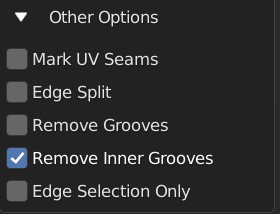
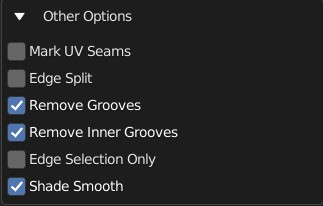
Added smoothing options

diff --git a/docs/_build/html/searchindex.js b/docs/_build/html/searchindex.js
@@ -1,1 +1,1 @@
-Search.setIndex({docnames:["anim_nodes/anim_nodes_overview","contact/contact","greeble_libraries/greeble_library","index","iterator/iterator","parameters/levels","parameters/panel_controls","parameters/properties","parameters/properties/greeble_props","parameters/properties/plating_props","selection/updating_selection","usage/installation","usage/presets","usage/quickstart"],envversion:{"sphinx.domains.c":2,"sphinx.domains.changeset":1,"sphinx.domains.citation":1,"sphinx.domains.cpp":4,"sphinx.domains.index":1,"sphinx.domains.javascript":2,"sphinx.domains.math":2,"sphinx.domains.python":3,"sphinx.domains.rst":2,"sphinx.domains.std":2,sphinx:56},filenames:["anim_nodes\\anim_nodes_overview.rst","contact\\contact.rst","greeble_libraries\\greeble_library.rst","index.rst","iterator\\iterator.rst","parameters\\levels.rst","parameters\\panel_controls.rst","parameters\\properties.rst","parameters\\properties\\greeble_props.rst","parameters\\properties\\plating_props.rst","selection\\updating_selection.rst","usage\\installation.rst","usage\\presets.rst","usage\\quickstart.rst"],objects:{},objnames:{},objtypes:{},terms:{"0":8,"1":[8,9],"100":8,"3":5,"3d":3,"4":5,"50":8,"500x500px":2,"90":8,"boolean":[],"case":8,"class":[],"default":[2,3,5,8,9],"do":[0,1,2,8,11],"final":2,"function":[4,8],"long":13,"new":[0,1,2,5,9,10,13],"switch":6,"try":[5,6],"while":[6,9],A:[2,5,8,9,11],And:0,As:9,By:[5,8,9],For:[2,3,5,8,9,10,11],If:[0,1,2,4,5,6,8,9,10,11,13],In:[5,9,10,11,13],It:[2,3,5,9],No:9,On:[3,5,10],One:0,Ons:2,The:[0,2,4,5,6,8,9,10,11,13],Then:[2,11],There:[0,2,8,9,11],These:[6,8,9,11,12,13],To:[2,4,5],With:[5,11,12],_:0,abil:5,abl:[2,5,8],abov:11,accent:9,access:[5,12],accident:13,accordingli:[3,5],ack:4,across:[],action:[3,13],activ:[8,9],ad:[5,8,9,12,13],add:[0,2,3,5,6,7,8],addit:[9,11],addon:[3,11],adjust:8,advanc:[],advantag:13,affect:8,after:4,algorithm:[3,9],align:8,all:[2,6,8,13],alloc:8,allow:[3,5,8,9,11],along:[8,11],alreadi:[2,9,10,11],also:[0,2,3,8,9,10,13],alt:[],alter:9,altern:4,amount:[8,9],an:[4,8,9,11,12],angl:7,ani:[2,3,6,11],anim:3,animation_nodes_plating_gener:11,animation_nodes_sampl:11,anoth:[5,13],appear:[2,4,5,10,11,13],appli:[2,5,8,9],approach:8,ar:[0,2,3,4,5,6,8,9,10,11,12,13],area:[5,8,9,10],around:9,arounf:[],arrow:5,artist:3,askhfalsflkdj:[],aspect:8,assess:4,assign:[5,9],associ:[5,10],auto:6,auto_update_btn:[],autom:3,automat:[4,5,6,8,9,10,12,13],avail:[0,11,13],avoid:[8,9],axi:8,back:[3,13],base:[3,5,9,13],basic:[8,13],becaus:8,becom:9,been:9,befor:[5,9],behavior:9,being:[4,5,8,9],below:[5,11,13],bend:[],best:[],between:9,bevel:[3,7],blah:[],blend:[2,11],blender:[0,2,4,5,6,9,11,13],bonu:11,both:[5,9],bottom:[12,13],box:[2,9,11],bring:13,brown:[2,7],bug:9,build:3,built:[5,13],button:[2,5,6,11,12],calcul:5,call:[2,4,5,9,13],camera:4,can:[2,4,5,6,8,9,10,12,13],cancel:3,cast:[],caution:5,chang:[3,6,8,9,10],checbox:[],check:[4,8,9],checkbox:[5,8,9,11],child:2,choic:[],choos:[3,4,5,8,9],chosen:[],clamp:9,cleanli:[],click:[2,5,8,10,11,12,13],coboid:[],code:6,color:[3,5,8,9],com:11,combin:[3,4,5,9],come:8,complet:[3,9],complex:[],comput:[2,5],concept:[3,5],configur:[0,1,2,4,5,9,11],conform:3,consist:[],consum:3,contact:3,contain:2,content:2,context:13,continu:[],control:[0,3,4,5,8,9],copi:[2,3,5],core:11,corner:[3,7],could:2,cover:8,coverag:8,creat:[0,2,3,4,5,8,9,10,13],creation:[],credit:2,criss:7,cross:7,curat:3,curv:[2,3,9],custom:[8,9],custom_greebl:2,customis:[3,8],customiz:3,cut:9,cutter:[],cylind:8,damag:13,decreas:[],deeper:13,defin:[8,9],deform:8,degre:8,delet:[2,5],demonstr:11,denot:[8,9],depend:5,depth:[3,9],descib:13,describ:[5,11,13],descript:8,design:3,desir:[],destruct:[3,5,6,9],detail:[3,9,13],determin:9,deviat:[8,9],dialog:11,diamet:9,differ:[3,4,5,6,8,9,10],difficult:13,direct:[8,9],directli:13,directori:[2,4],disabl:[5,8,9],disappear:[9,13],displai:[4,5,6,13],distanc:9,distort:9,divid:[],divis:8,document:[9,11],doe:[2,11],don:13,down:[2,5,8,9],download:11,dragon:7,drop:[2,8,9],dropdown:12,duplic:[],dure:13,dynam:[0,11],e:11,each:[4,5,8,9],easi:[],edg:[3,7],edit:[2,3,9,10,11,13],effect:[0,3,5,8,9],either:[0,3,5,13],embed:13,enabl:[5,8,9],engin:4,ensur:[],enter:[8,12],entri:[2,12],essenti:11,exampl:[2,5,9,12],exist:[4,9,10,13],expand:[2,5,13],expens:9,experiment:9,extens:[0,11],extra:5,extrud:3,extrus:[],f9:13,face:[3,5,7,8,13],fantast:[],fashion:[],favour:[],featur:[0,1,4,11],feel:3,fewer:9,fi:[],file:[2,4,11],filenam:4,find:[2,3],first:5,fit:8,fix:3,flat:3,folder:2,follow:[2,8,9,10,11,13],form:13,freeli:11,freez:[4,5],from:[2,3,5,7,9,10,11,13],full:[],further:[3,5],futur:5,futurist:[],g:11,gener:[0,2,4,6,7,10,11,12,13],geometri:9,get:[0,1,2,3,5,10,11],gimp:5,give:[2,5,9],given:9,go:[2,3,11],goal:[],good:[2,8,9],great:5,greatli:3,greebl:[0,3,5,7,9,11,12],greeble_librari:11,green:5,groob:[],groov:[3,7],group:9,ha:[5,8,9],half:8,hand:[6,13],have:[0,1,2,5,8,9,10,11,12,13],height:[3,7,8,12],here:[5,8,9,11,13],hesit:[0,1,2,11],hidden:5,higher:[8,9],highlight:5,hover:8,how:[8,9,11],howev:13,http:11,hull:3,i:2,ico:9,icon:5,imag:4,increas:9,independ:9,index:[3,8,9],infinit:[],info:[0,1,2,11],inherit:8,inner:9,insid:9,inspir:9,instal:[3,8],instanc:[2,3,8],instead:9,instruct:11,intact:[3,13],integr:3,interest:5,interfac:8,interlock:3,intersect:9,introduct:3,irregular:8,island:[],issu:[0,1,2,11],iter:3,its:10,join:2,jpg:[],just:[8,9],keep:[8,9],kei:[5,6,13],kept:9,kit:4,kitbash:[],known:9,l:8,larger:9,latest:11,lattic:[],layer:[5,9],lead:9,leav:[3,9,13],left:[11,13],length:8,less:9,let:9,level:[3,8,9,13],librari:[3,7,11],light:2,like:[0,2,6,8,12],limit:9,line:[3,9,13],list:2,load:[2,12],locat:12,longer:[3,4,5],look:[0,2,3,6],loop:[3,9],lower:9,mai:[4,5,9,13],main:[0,3,4,8,9,10],maintain:[3,8],major:7,make:[3,5,9,11],manag:[],mani:[2,4,8,9],manual:[3,6],map:[2,9],mark:9,master:[4,6],match:9,materi:[2,3,7,8],max:[8,9],maximum:[8,9],maxmum:[],mean:8,mech:[],menu:[8,9,10,12,13],mesh:[2,3,8,9,10,11],method:3,min:[8,9],minimum:[5,8,9],minor:7,mirror:[],mode:[8,9,10,13],model:3,modifi:[2,9,13],modul:3,moment:5,more:[3,5,8,9,13],mors:[2,7],most:[],mous:8,move:5,much:[8,9],multipl:[],my:2,my_greebl:2,n:[6,13],name:[2,4,5,8,9,12,13],navig:[4,11],need:[2,6,13],neg:9,net:[0,1,2,11],next:[11,12],node:3,non:[3,5,6,7,9],normal:[2,8],note:9,now:[2,5],number:[8,9],object:[2,3,4,5,6,7,9,10,12],off:6,ok:12,onc:8,one:[0,2,5,8,13],onli:9,ons:11,onto:[5,8],op:4,open:11,oper:[3,9],opposit:9,optim:[],option:[0,2,3,4,5,7,8,10,11,13],order:11,organis:[5,8,9],orient:7,origin:[5,8,9,13],other:[2,3,7,8],our:[],out:[4,6,8,9],outer:9,output:4,outsid:13,outward:8,over:3,overal:[6,8],overlap:[3,7,9],overrid:[8,9],own:[2,3,8,9],page:3,pair:2,panel:[0,3,8,9,12,13],parallelmayhem:[],paramet:[6,7,9,11],part:9,path:4,pattern:[3,7,11,12,13],pattern_triangular:[],per:9,percentag:[8,9],perform:[9,13],photoshop:5,pick:[],pictur:2,place:8,plate:[0,2,4,5,6,7,8,11,12],plating_color:9,plating_generator_greebl:11,png:2,point:[8,10,13],pop:12,popul:9,posit:8,positon:[],possibl:4,power:[0,5],prefer:[2,11],presenc:4,preset:[3,5],press:[5,6,9,12,13],prevent:[5,9],preview:4,previou:5,process:[3,4,5],produc:4,product:[],project:7,prop_greeble_pattern:[],properti:[0,3,6],proport:[3,8],provid:11,purpl:5,purpos:[5,8,9],put:8,quad:[3,8],question:[0,1],quickli:[3,6],random:[3,5,6,8,9,12],randomis:6,randomli:[6,8,9],rang:[3,4],ratio:8,re:[5,12],recommend:[],reconfigur:3,rectangl:7,ref:[],refin:3,refresh:2,rel:8,reliabl:[],remain:9,rememb:[],remov:[3,4,9],render:[2,4],reset:2,restrict:8,result:9,revenu:[],right:[6,10,12,13],rise:5,rivet:7,robot:[],robust:[],rotat:8,roughli:8,round:[3,9],rout:[],row:5,rubi:7,run:4,s:[5,6,8,9,13],sam:[2,9],same:[2,8,9,11],sampl:11,save:[2,5,12],scatter:3,scene:[2,4,7],sci:[],screen:2,sdf:[],sdfsdf:[],sdsdf:[],seam:9,search:[2,3,11],section:[2,5,8,9,13],see:[2,4,5,8,9,13],seed:[3,4,5,6,8,9],segment:9,select:[2,3,5,6,7,8,11,12,13],selector:5,separ:[0,2,3,13],set:[2,4,5,8,9,10,11,12,13],setup:11,sever:8,shader:9,shape:[3,8,9],shift:5,ship:[],shipwright:[],should:[2,5,8,9,10,11,13],show:[5,6,8,9],shrink:9,side:[5,6,9,13],similar:[0,4,5,9],simpl:9,singl:[2,5],size:[5,8,9],slice:9,slide:[],slope:[],slot:[8,9],slow:5,small:[2,5,8,9],smaller:[3,5,9],smart:9,smooth:9,so:[2,5,6,8,9],sold:[],solid:[],solidifi:9,some:[5,9,13],somewher:2,space:8,spaceship:3,special:3,specif:[],specifi:[6,8,9],speed:3,sphere:9,spheric:9,split:9,squar:[2,8],stack:5,standard:[3,9],start:[2,3,4],step:11,still:3,stop:[4,5,8],stream:[],stretch:8,strong:[],sub:[3,5],subdivid:9,subdivis:9,subsequ:[],subtract:[],suppli:8,support:[],sure:[2,9,11],surfac:[3,8],surround:9,synth:4,t:[8,13],tab:[2,6,11,13],take:3,tall:[],taper:7,termin:9,test:3,textur:9,than:[5,9],thei:[3,5,8,9],them:[8,9],thi:[0,2,3,4,5,6,8,9,10,11,13],thia:9,thick:3,those:0,through:3,thumbnail:[2,8],tick:11,tier:5,time:[3,13],todo:[],tool:13,top:[3,5,9,11,12,13],total:8,touch:[0,1,2,11],toward:[],triangl:9,triangular:7,turn:[6,8],twitter:[],two:[0,9],type:[2,5,7,11],u:[],ui:11,uncheck:9,under:8,undo:13,unfreez:4,uniform:8,uniqu:3,unless:[5,8],unnecessarili:8,unzip:[2,11],up:[2,3,5,12],updat:[3,5,6],upper:5,us:[0,2,3,6,8,9,10,11,12,13],user:8,uv:[2,7],v:[],valu:[4,8,9],vari:[3,8,9],variat:6,vector:8,veri:[3,5],version:[3,9],vertex:[3,9],via:[0,1,2,9,11],view:[],viewport:[6,13],visibl:[6,13],w:[],wa:5,wai:[2,13],wait:[],walk:9,want:[0,3,8,9,10,13],we:[8,9],weapon:[],what:[2,6],when:[2,3,4,5,6,8,9,10,12,13],where:[8,9,11],wherev:9,whether:[4,5,6,8,9],which:[3,5,8,9,13],whilst:4,who:3,whole:[3,9],width:[8,9],wish:[5,10,13],within:[6,8],without:[8,9],work:[5,9],workflow:[3,5,6,9],would:2,x:9,y:[],you:[0,1,2,4,5,6,8,9,10,11,12,13],your:[2,3,4,8,12,13],z:8,zip:[2,11]},titles:["Animation Nodes","Contact","Greeble Libraries","The Plating Generator","Iterator","Levels","Control Panel","Properties","Greeble Properties","Plating Properties","Update/Copy/Select","Installation","Presets","Getting Started"],titleterms:{"0":3,For:[],On:11,The:3,ad:[],add:[9,11,12,13],angl:9,anim:[0,11],anoth:[],appli:12,bevel:9,brown:9,build:5,can:3,cancel:4,chang:[5,13],collect:[],contact:1,content:[3,7],control:6,copi:10,corner:9,criss:9,cross:9,custom:[],delet:12,destruct:[12,13],document:[],doe:3,down:[],dragon:9,drop:[],edg:9,end:[],face:[9,10],featur:3,from:8,gener:[3,8,9],get:13,greebl:[2,8,13],groov:9,height:9,how:3,indic:3,instal:[2,11],introduct:5,iter:4,level:5,librari:[2,8],main:[6,11],major:9,make:2,materi:9,menu:[],mesh:13,minor:9,mors:9,node:[0,11],non:[8,12,13],object:[8,13],oper:[4,13],option:9,orient:8,other:[5,9],overlap:8,overrid:[],panel:[5,6],paramet:8,pattern:[8,9],plate:[3,9,10,13],preset:12,project:9,properti:[5,7,8,9,13],random:[],rectangl:9,redo:3,rivet:9,rotat:[],round:[],rubi:9,s:[],scale:[],scene:8,select:[9,10],start:13,tabl:3,taper:9,triangular:9,type:9,updat:10,us:[4,5],uv:9,v2:3,version:11,welcom:[],what:3,work:3,workflow:[12,13],you:3}})
+Search.setIndex({docnames:["anim_nodes/anim_nodes_overview","contact/contact","greeble_libraries/greeble_library","index","iterator/iterator","parameters/levels","parameters/panel_controls","parameters/properties","parameters/properties/greeble_props","parameters/properties/plating_props","selection/updating_selection","usage/installation","usage/presets","usage/quickstart"],envversion:{"sphinx.domains.c":2,"sphinx.domains.changeset":1,"sphinx.domains.citation":1,"sphinx.domains.cpp":4,"sphinx.domains.index":1,"sphinx.domains.javascript":2,"sphinx.domains.math":2,"sphinx.domains.python":3,"sphinx.domains.rst":2,"sphinx.domains.std":2,sphinx:56},filenames:["anim_nodes\\anim_nodes_overview.rst","contact\\contact.rst","greeble_libraries\\greeble_library.rst","index.rst","iterator\\iterator.rst","parameters\\levels.rst","parameters\\panel_controls.rst","parameters\\properties.rst","parameters\\properties\\greeble_props.rst","parameters\\properties\\plating_props.rst","selection\\updating_selection.rst","usage\\installation.rst","usage\\presets.rst","usage\\quickstart.rst"],objects:{},objnames:{},objtypes:{},terms:{"0":8,"1":[8,9],"100":8,"3":5,"3d":3,"4":5,"50":8,"500x500px":2,"90":8,"boolean":[],"case":8,"class":[],"default":[2,3,5,8,9],"do":[0,1,2,8,11],"final":2,"function":[4,8],"long":13,"new":[0,1,2,5,9,10,13],"switch":6,"try":[5,6],"while":[6,9],A:[2,5,8,9,11],And:0,As:9,By:[5,8,9],For:[2,3,5,8,9,10,11],If:[0,1,2,4,5,6,8,9,10,11,13],In:[5,9,10,11,13],It:[2,3,5,9],No:9,On:[3,5,10],One:0,Ons:2,The:[0,2,4,5,6,8,9,10,11,13],Then:[2,11],There:[0,2,8,9,11],These:[6,8,9,11,12,13],To:[2,4,5],With:[5,11,12],_:0,abil:5,abl:[2,5,8],abov:11,accent:9,access:[5,12],accident:13,accordingli:[3,5],ack:4,across:[],action:[3,13],activ:[8,9],ad:[5,8,9,12,13],add:[0,2,3,5,6,7,8],addit:[9,11],addon:[3,11],adjust:8,advanc:[],advantag:13,affect:8,after:4,algorithm:[3,9],align:8,all:[2,6,8,9,13],alloc:8,allow:[3,5,8,9,11],along:[8,11],alreadi:[2,9,10,11],also:[0,2,3,8,9,10,13],alt:[],alter:9,altern:4,amount:[8,9],an:[4,8,9,11,12],angl:7,ani:[2,3,6,11],anim:3,animation_nodes_plating_gener:11,animation_nodes_sampl:11,anoth:[5,13],appear:[2,4,5,10,11,13],appli:[2,5,8,9],approach:8,ar:[0,2,3,4,5,6,8,9,10,11,12,13],area:[5,8,9,10],around:9,arounf:[],arrow:5,artist:3,askhfalsflkdj:[],aspect:8,assess:4,assign:[5,9],associ:[5,10],auto:[6,9],auto_update_btn:[],autom:3,automat:[4,5,6,8,9,10,12,13],avail:[0,11,13],avoid:[8,9],axi:8,back:[3,13],base:[3,5,9,13],basic:[8,13],becaus:8,becom:9,been:9,befor:[5,9],behavior:9,being:[4,5,8,9],below:[5,11,13],bend:[],best:[],between:9,bevel:[3,7],blah:[],blend:[2,11],blender:[0,2,4,5,6,9,11,13],bonu:11,both:[5,9],bottom:[12,13],box:[2,9,11],bring:13,brown:[2,7],bug:9,build:3,built:[5,13],button:[2,5,6,11,12],calcul:5,call:[2,4,5,9,13],camera:4,can:[2,4,5,6,8,9,10,12,13],cancel:3,cast:[],caution:5,chang:[3,6,8,9,10],checbox:[],check:[4,8,9],checkbox:[5,8,9,11],child:2,choic:[],choos:[3,4,5,8,9],chosen:[],clamp:9,cleanli:[],click:[2,5,8,10,11,12,13],coboid:[],code:6,color:[3,5,8,9],com:11,combin:[3,4,5,9],come:8,complet:[3,9],complex:[],comput:[2,5],concept:[3,5],configur:[0,1,2,4,5,9,11],conform:3,consist:[],consum:3,contact:3,contain:2,content:2,context:13,continu:[],control:[0,3,4,5,8,9],copi:[2,3,5],core:11,corner:[3,7],could:2,cover:8,coverag:8,creat:[0,2,3,4,5,8,9,10,13],creation:[],credit:2,criss:7,cross:7,curat:3,curv:[2,3,9],custom:[8,9],custom_greebl:2,customis:[3,8],customiz:3,cut:9,cutter:[],cylind:8,damag:13,decreas:[],deeper:13,defin:[8,9],deform:8,degre:8,delet:[2,5],demonstr:11,denot:[8,9],depend:5,depth:[3,9],descib:13,describ:[5,11,13],descript:8,design:3,desir:[],destruct:[3,5,6,9],detail:[3,9,13],determin:9,deviat:[8,9],dialog:11,diamet:9,differ:[3,4,5,6,8,9,10],difficult:13,direct:[8,9],directli:13,directori:[2,4],disabl:[5,8,9],disappear:[9,13],displai:[4,5,6,13],distanc:9,distort:9,divid:[],divis:8,document:[9,11],doe:[2,11],don:13,down:[2,5,8,9],download:11,dragon:7,drop:[2,8,9],dropdown:12,duplic:[],dure:13,dynam:[0,11],e:11,each:[4,5,8,9],easi:[],edg:[3,7],edit:[2,3,9,10,11,13],effect:[0,3,5,8,9],either:[0,3,5,13],embed:13,enabl:[5,8,9],engin:4,ensur:[],enter:[8,12],entri:[2,12],essenti:11,exampl:[2,5,9,12],exist:[4,9,10,13],expand:[2,5,13],expens:9,experiment:9,extens:[0,11],extra:5,extrud:3,extrus:[],f9:13,face:[3,5,7,8,13],fantast:[],fashion:[],favour:[],featur:[0,1,4,11],feel:3,fewer:9,fi:[],file:[2,4,11],filenam:4,find:[2,3],first:5,fit:8,fix:3,flat:3,folder:2,follow:[2,8,9,10,11,13],form:13,freeli:11,freez:[4,5],from:[2,3,5,7,9,10,11,13],full:[],further:[3,5],futur:5,futurist:[],g:11,gener:[0,2,4,6,7,10,11,12,13],geometri:9,get:[0,1,2,3,5,10,11],gimp:5,give:[2,5,9],given:9,go:[2,3,11],goal:[],good:[2,8,9],great:5,greatli:3,greebl:[0,3,5,7,9,11,12],greeble_librari:11,green:5,groob:[],groov:[3,7],group:9,ha:[5,8,9],half:8,hand:[6,13],have:[0,1,2,5,8,9,10,11,12,13],height:[3,7,8,12],here:[5,8,9,11,13],hesit:[0,1,2,11],hidden:5,higher:[8,9],highlight:5,hover:8,how:[8,9,11],howev:13,http:11,hull:3,i:2,ico:9,icon:5,imag:4,increas:9,independ:9,index:[3,8,9],infinit:[],info:[0,1,2,11],inherit:8,inner:9,insid:9,inspir:9,instal:[3,8],instanc:[2,3,8],instead:9,instruct:11,intact:[3,13],integr:3,interest:5,interfac:8,interlock:3,intersect:9,introduct:3,irregular:8,island:[],issu:[0,1,2,11],iter:3,its:10,join:2,jpg:[],just:[8,9],keep:[8,9],kei:[5,6,13],kept:9,kit:4,kitbash:[],known:9,l:8,larger:9,latest:11,lattic:[],layer:[5,9],lead:9,leav:[3,9,13],left:[11,13],length:8,less:9,let:9,level:[3,8,9,13],librari:[3,7,11],light:2,like:[0,2,6,8,12],limit:9,line:[3,9,13],list:2,load:[2,12],locat:12,longer:[3,4,5],look:[0,2,3,6],loop:[3,9],lower:9,mai:[4,5,9,13],main:[0,3,4,8,9,10],maintain:[3,8],major:7,make:[3,5,9,11],manag:[],mani:[2,4,8,9],manual:[3,6],map:[2,9],mark:9,master:[4,6],match:9,materi:[2,3,7,8],max:[8,9],maximum:[8,9],maxmum:[],mean:8,mech:[],menu:[8,9,10,12,13],mesh:[2,3,8,9,10,11],method:3,min:[8,9],minimum:[5,8,9],minor:7,mirror:[],mode:[8,9,10,13],model:3,modifi:[2,9,13],modul:3,moment:5,more:[3,5,8,9,13],mors:[2,7],most:[],mous:8,move:5,much:[8,9],multipl:[],my:2,my_greebl:2,n:[6,13],name:[2,4,5,8,9,12,13],navig:[4,11],need:[2,6,13],neg:9,net:[0,1,2,11],next:[11,12],node:3,non:[3,5,6,7,9],normal:[2,8],note:9,now:[2,5],number:[8,9],object:[2,3,4,5,6,7,9,10,12],off:6,ok:12,onc:8,one:[0,2,5,8,13],onli:9,ons:11,onto:[5,8],op:4,open:11,oper:[3,9],opposit:9,optim:[],option:[0,2,3,4,5,7,8,10,11,13],order:11,organis:[5,8,9],orient:7,origin:[5,8,9,13],other:[2,3,7,8],our:[],out:[4,6,8,9],outer:9,output:4,outsid:13,outward:8,over:3,overal:[6,8],overlap:[3,7,9],overrid:[8,9],own:[2,3,8,9],page:3,pair:2,panel:[0,3,8,9,12,13],parallelmayhem:[],paramet:[6,7,9,11],part:9,path:4,pattern:[3,7,11,12,13],pattern_triangular:[],per:9,percentag:[8,9],perform:[9,13],photoshop:5,pick:[],pictur:2,place:8,plate:[0,2,4,5,6,7,8,11,12],plating_color:9,plating_generator_greebl:11,png:2,point:[8,10,13],pop:12,popul:9,posit:8,positon:[],possibl:4,power:[0,5],prefer:[2,11],presenc:4,preset:[3,5],press:[5,6,9,12,13],prevent:[5,9],preview:4,previou:5,process:[3,4,5],produc:4,product:[],project:7,prop_greeble_pattern:[],properti:[0,3,6],proport:[3,8],provid:11,purpl:5,purpos:[5,8,9],put:8,quad:[3,8],question:[0,1],quickli:[3,6],random:[3,5,6,8,9,12],randomis:6,randomli:[6,8,9],rang:[3,4],ratio:8,re:[5,12],recommend:[],reconfigur:3,rectangl:7,ref:[],refin:3,refresh:2,rel:8,reliabl:[],remain:9,rememb:[],remov:[3,4,9],render:[2,4],reset:2,restrict:8,result:9,revenu:[],right:[6,10,12,13],rise:5,rivet:7,robot:[],robust:[],rotat:8,roughli:8,round:[3,9],rout:[],row:5,rubi:7,run:4,s:[5,6,8,9,13],sam:[2,9],same:[2,8,9,11],sampl:11,save:[2,5,12],scatter:3,scene:[2,4,7],sci:[],screen:2,sdf:[],sdfsdf:[],sdsdf:[],seam:9,search:[2,3,11],section:[2,5,8,9,13],see:[2,4,5,8,9,13],seed:[3,4,5,6,8,9],segment:9,select:[2,3,5,6,7,8,11,12,13],selector:5,separ:[0,2,3,13],set:[2,4,5,8,9,10,11,12,13],setup:11,sever:8,shade:9,shader:9,shape:[3,8,9],shift:5,ship:[],shipwright:[],should:[2,5,8,9,10,11,13],show:[5,6,8,9],shrink:9,side:[5,6,9,13],similar:[0,4,5,9],simpl:9,singl:[2,5],size:[5,8,9],slice:9,slide:[],slope:[],slot:[8,9],slow:5,small:[2,5,8,9],smaller:[3,5,9],smart:9,smooth:7,so:[2,5,6,8,9],sold:[],solid:[],solidifi:9,some:[5,9,13],somewher:2,space:8,spaceship:3,special:3,specif:[],specifi:[6,8,9],speed:3,sphere:9,spheric:9,split:9,squar:[2,8],stack:5,standard:[3,9],start:[2,3,4],step:11,still:3,stop:[4,5,8],stream:[],stretch:8,strong:[],sub:[3,5],subdivid:9,subdivis:9,subsequ:[],subtract:[],suppli:8,support:[],sure:[2,9,11],surfac:[3,8],surround:9,synth:4,t:[8,13],tab:[2,6,11,13],take:3,tall:[],taper:7,termin:9,test:3,textur:9,than:[5,9],thei:[3,5,8,9],them:[8,9],thi:[0,2,3,4,5,6,8,9,10,11,13],thia:9,thick:3,those:0,through:3,thumbnail:[2,8],tick:11,tier:5,time:[3,13],todo:[],tool:13,top:[3,5,9,11,12,13],total:8,touch:[0,1,2,11],toward:[],triangl:9,triangular:7,turn:[6,8],twitter:[],two:[0,9],type:[2,5,7,11],u:[],ui:11,uncheck:9,under:8,undo:13,unfreez:4,uniform:8,uniqu:3,unless:[5,8],unnecessarili:8,unzip:[2,11],up:[2,3,5,12],updat:[3,5,6],upper:5,us:[0,2,3,6,8,9,10,11,12,13],user:8,uv:[2,7],v:[],valu:[4,8,9],vari:[3,8,9],variat:6,vector:8,veri:[3,5],version:[3,9],vertex:[3,9],via:[0,1,2,9,11],view:[],viewport:[6,13],visibl:[6,13],w:[],wa:5,wai:[2,13],wait:[],walk:9,want:[0,3,8,9,10,13],we:[8,9],weapon:[],what:[2,6],when:[2,3,4,5,6,8,9,10,12,13],where:[8,9,11],wherev:9,whether:[4,5,6,8,9],which:[3,5,8,9,13],whilst:4,who:3,whole:[3,9],width:[8,9],wish:[5,10,13],within:[6,8],without:[8,9],work:[5,9],workflow:[3,5,6,9],would:2,x:9,y:[],you:[0,1,2,4,5,6,8,9,10,11,12,13],your:[2,3,4,8,12,13],z:8,zip:[2,11]},titles:["Animation Nodes","Contact","Greeble Libraries","The Plating Generator","Iterator","Levels","Control Panel","Properties","Greeble Properties","Plating Properties","Update/Copy/Select","Installation","Presets","Getting Started"],titleterms:{"0":3,For:[],On:11,The:3,ad:[],add:[9,11,12,13],angl:9,anim:[0,11],anoth:[],appli:12,bevel:9,brown:9,build:5,can:3,cancel:4,chang:[5,13],collect:[],contact:1,content:[3,7],control:6,copi:10,corner:9,criss:9,cross:9,custom:[],delet:12,destruct:[12,13],document:[],doe:3,down:[],dragon:9,drop:[],edg:9,end:[],face:[9,10],featur:3,from:8,gener:[3,8,9],get:13,greebl:[2,8,13],groov:9,height:9,how:3,indic:3,instal:[2,11],introduct:5,iter:4,level:5,librari:[2,8],main:[6,11],major:9,make:2,materi:9,menu:[],mesh:13,minor:9,mors:9,node:[0,11],non:[8,12,13],object:[8,13],oper:[4,13],option:9,orient:8,other:[5,9],overlap:8,overrid:[],panel:[5,6],paramet:8,pattern:[8,9],plate:[3,9,10,13],preset:12,project:9,properti:[5,7,8,9,13],random:[],rectangl:9,redo:3,rivet:9,rotat:[],round:[],rubi:9,s:[],scale:[],scene:8,select:[9,10],smooth:9,start:13,tabl:3,taper:9,triangular:9,type:9,updat:10,us:[4,5],uv:9,v2:3,version:11,welcom:[],what:3,work:3,workflow:[12,13],you:3}})

diff --git a/docs/_build/html/parameters/properties/plating_props.html b/docs/_build/html/parameters/properties/plating_props.html
@@ -74,6 +74,7 @@
 </li>
 <li class="toctree-l3"><a class="reference internal" href="#other-options">Other Options</a></li>
 <li class="toctree-l3"><a class="reference internal" href="#uv-projection">UV Projection</a></li>
+<li class="toctree-l3"><a class="reference internal" href="#smoothing">Smoothing</a></li>
 </ul>
 </li>
 <li class="toctree-l2"><a class="reference internal" href="greeble_props.html">Greeble Properties</a></li>
@@ -420,6 +421,7 @@
 <li><p><strong>Remove Grooves</strong>: completely remove the grooves and just leave the plates. Useful with Solidify modifier.</p></li>
 <li><p><strong>Remove Inner Grooves</strong>: This allows you to remove just the inner groove faces.  Useful in the <a class="reference internal" href="../../usage/quickstart.html#non-destructive-workflow"><span class="std std-ref">Non Destructive Workflow</span></a> when you just want the plates and sides.</p></li>
 <li><p><strong>Edge Selection Only</strong>: only select the edges, without the mesh being edited.  Useful if you want to perform custom operations on the selection.</p></li>
+<li><p><strong>Shade Smooth</strong>: All faces will have their shading set to <em>smooth</em>.</p></li>
 </ul>
 </section>
 <section id="uv-projection">
@@ -430,6 +432,11 @@
 <li><p><strong>UV Projection Limit</strong>: This controls how faces are grouped: a higher limit will lead to many small groups but less distortion, while a lower limit will create fewer groups at the expense of more distortion.</p></li>
 </ul>
 <img alt="UV Projection on Plates" src="../../_images/prop_UV_projection.jpg" />
+</section>
+<section id="smoothing">
+<h2>Smoothing<a class="headerlink" href="#smoothing" title="Permalink to this headline"></a></h2>
+<img alt="UV Projection on Plates" src="../../_images/prop_auto_smooth.jpg" />
+<p>When checked, the whole object will have <a href="https://docs.blender.org/manual/en/2.79/modeling/meshes/editing/normals.html#auto-smooth" target="_blank">auto smoothing</a> applied and is controlled by the <strong>Auto Smooth Angle</strong>.</p>
 </section>
 </section>
 

diff --git a/docs/_build/html/parameters/properties.html b/docs/_build/html/parameters/properties.html
@@ -124,6 +124,7 @@
 </li>
 <li class="toctree-l2"><a class="reference internal" href="properties/plating_props.html#other-options">Other Options</a></li>
 <li class="toctree-l2"><a class="reference internal" href="properties/plating_props.html#uv-projection">UV Projection</a></li>
+<li class="toctree-l2"><a class="reference internal" href="properties/plating_props.html#smoothing">Smoothing</a></li>
 </ul>
 </li>
 <li class="toctree-l1"><a class="reference internal" href="properties/greeble_props.html">Greeble Properties</a><ul>

diff --git a/docs/parameters/properties/plating_props.rst b/docs/parameters/properties/plating_props.rst
@@ -398,7 +398,7 @@ Other Options
 * **Remove Grooves**: completely remove the grooves and just leave the plates. Useful with Solidify modifier.
 * **Remove Inner Grooves**: This allows you to remove just the inner groove faces.  Useful in the :ref:`Non Destructive Workflow` when you just want the plates and sides.
 * **Edge Selection Only**: only select the edges, without the mesh being edited.  Useful if you want to perform custom operations on the selection.
-
+* **Shade Smooth**: All faces will have their shading set to *smooth*.
 
 *****************************
 UV Projection
@@ -418,3 +418,18 @@ The Plates will automatically have Blender's |UV Smart Projection| algorithm app
 .. |UV Smart Projection| raw:: html
 
    <a href="https://docs.blender.org/manual/en/2.79/editors/uv_image/uv/editing/unwrapping/mapping_types.html#smart-uv-project" target="_blank">UV Smart Projection</a>
+
+
+*****************************
+Smoothing
+*****************************
+
+.. image:: ../../images/prop_auto_smooth.jpg
+    :alt: UV Projection on Plates
+
+When checked, the whole object will have |auto smoothing| applied and is controlled by the **Auto Smooth Angle**.
+
+
+.. |auto smoothing| raw:: html
+
+   <a href="https://docs.blender.org/manual/en/2.79/modeling/meshes/editing/normals.html#auto-smooth" target="_blank">auto smoothing</a>
